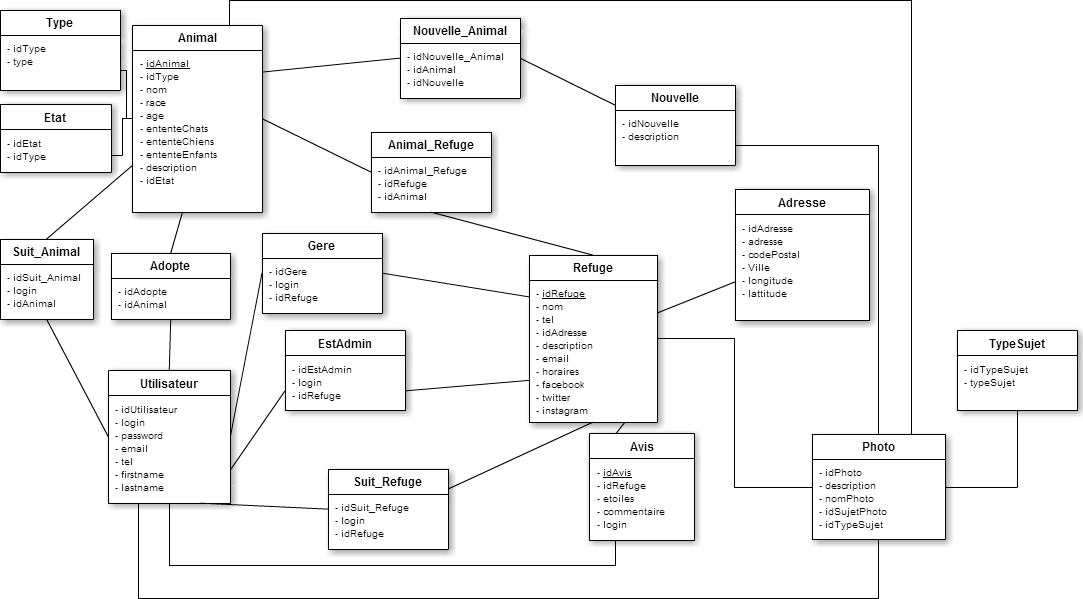
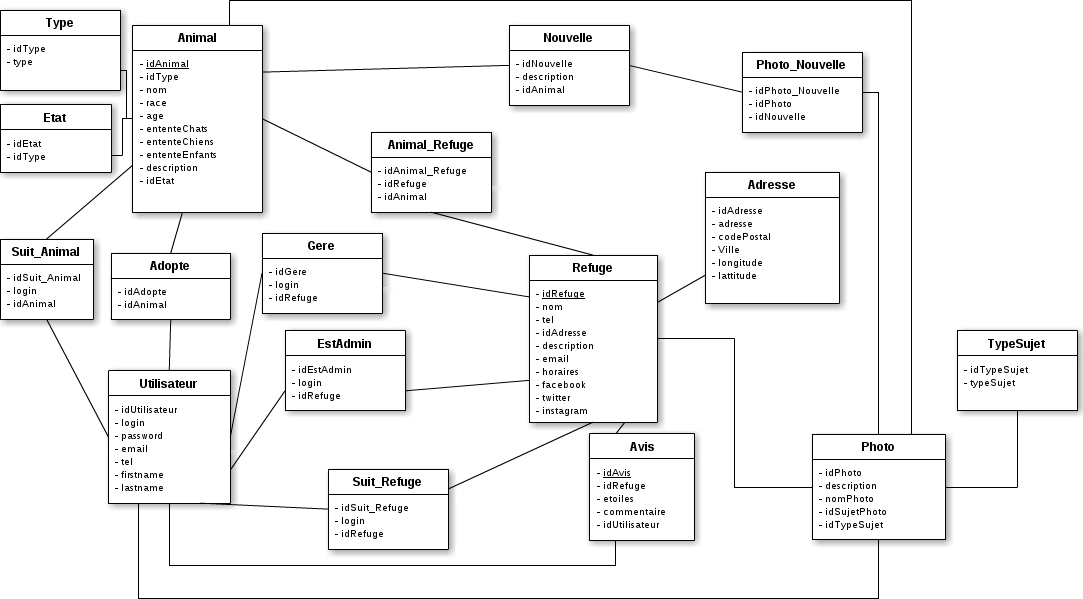
Gestion BD : Ajout des nouvelles
(closes #13)

diff --git a/Find-Yours-Pets/app/src/main/java/company/pepisha/find_yours_pets/db/news/NewsOperation.java b/Find-Yours-Pets/app/src/main/java/company/pepisha/find_yours_pets/db/news/NewsOperation.java
@@ -1,0 +1,90 @@
+package company.pepisha.find_yours_pets.db.news;
+
+
+import android.content.ContentValues;
+import android.content.Context;
+import android.database.Cursor;
+import android.database.SQLException;
+import android.database.sqlite.SQLiteDatabase;
+
+import java.util.ArrayList;
+import java.util.List;
+
+import company.pepisha.find_yours_pets.db.DataBaseWrapper;
+
+public class NewsOperation {
+
+    private DataBaseWrapper dbHelper;
+    private String[] NEWS_TABLE_COLUMNS = { NewsConstants.ID_NEWS,
+            NewsConstants.DESCRIPTION, NewsConstants.ID_ANIMAL };
+    private SQLiteDatabase database;
+
+
+    public NewsOperation(Context context){
+        dbHelper = new DataBaseWrapper(context);
+    }
+
+    public void open() throws SQLException {
+        database = dbHelper.getWritableDatabase();
+    }
+
+    public void close() {
+        dbHelper.close();
+    }
+
+    public News addNews(String description, int idAnimal) {
+        ContentValues values = new ContentValues();
+
+        values.put(NewsConstants.DESCRIPTION, description);
+        values.put(NewsConstants.ID_ANIMAL, idAnimal);
+
+        long newsId = database.insert(NewsConstants.NEWS, null, values);
+
+        News news = getNews(newsId);
+        return news;
+    }
+
+    public void deleteNews(News news) {
+        long id = news.getIdNews();
+        database.delete(NewsConstants.NEWS, NewsConstants.ID_NEWS
+                + " = " + id, null);
+    }
+
+    public List getAllNews() {
+        List newsList = new ArrayList();
+
+        Cursor cursor = database.query(NewsConstants.NEWS,
+                NEWS_TABLE_COLUMNS, null, null, null, null, null);
+
+        cursor.moveToFirst();
+        while (!cursor.isAfterLast()) {
+            News news = parseNews(cursor);
+            newsList.add(news);
+            cursor.moveToNext();
+        }
+
+        cursor.close();
+        return newsList;
+    }
+
+    public News getNews(long newsId){
+        Cursor cursor = database.query(NewsConstants.NEWS,
+                NEWS_TABLE_COLUMNS, NewsConstants.ID_NEWS + " = "
+                        + newsId, null, null, null, null);
+
+        cursor.moveToFirst();
+
+        News news = parseNews(cursor);
+        cursor.close();
+        return news;
+    }
+
+    private News parseNews(Cursor cursor) {
+        News news = new News();
+        news.setIdNews(cursor.getInt(0));
+        news.setDescription(cursor.getString(1));
+        news.setIdAnimal(cursor.getInt(2));
+
+        return news;
+    }
+}

diff --git a/Find-Yours-Pets/app/src/main/java/company/pepisha/find_yours_pets/db/news/NewsConstants.java b/Find-Yours-Pets/app/src/main/java/company/pepisha/find_yours_pets/db/news/NewsConstants.java
@@ -1,0 +1,22 @@
+package company.pepisha.find_yours_pets.db.news;
+
+
+import company.pepisha.find_yours_pets.db.animal.AnimalConstants;
+
+public class NewsConstants {
+    protected static final String NEWS = "News";
+
+    protected static final String ID_NEWS = "idNews";
+    protected static final String DESCRIPTION = "description";
+    protected static final String ID_ANIMAL = "idAnimal";
+
+    protected static final String NEWS_CREATE = "create table " + NEWS
+            + "(" + ID_NEWS + " integer primary key autoincrement, " +
+            DESCRIPTION + " text not null, " +
+            ID_ANIMAL + " integer not null, " +
+            "FOREIGN KEY(" + ID_ANIMAL + ") REFERENCES " + AnimalConstants.ANIMAL
+            + "(" + AnimalConstants.ID_ANIMAL + ")," +
+            ");";
+
+    protected static final String NEWS_DROP = "DROP TABLE IF NOT EXISTS " + NEWS;
+}

diff --git a/Find-Yours-Pets/app/src/main/java/company/pepisha/find_yours_pets/db/news/News.java b/Find-Yours-Pets/app/src/main/java/company/pepisha/find_yours_pets/db/news/News.java
@@ -1,0 +1,32 @@
+package company.pepisha.find_yours_pets.db.news;
+
+
+public class News {
+    private int idNews;
+    private String description;
+    private int idAnimal;
+
+    public int getIdNews() {
+        return idNews;
+    }
+
+    public void setIdNews(int idNews) {
+        this.idNews = idNews;
+    }
+
+    public String getDescription() {
+        return description;
+    }
+
+    public void setDescription(String description) {
+        this.description = description;
+    }
+
+    public int getIdAnimal() {
+        return idAnimal;
+    }
+
+    public void setIdAnimal(int idAnimal) {
+        this.idAnimal = idAnimal;
+    }
+}

diff --git a/Find-Yours-Pets/app/src/main/java/company/pepisha/find_yours_pets/db/animal/AnimalConstants.java b/Find-Yours-Pets/app/src/main/java/company/pepisha/find_yours_pets/db/animal/AnimalConstants.java
@@ -3,9 +3,9 @@ package company.pepisha.find_yours_pets.db.animal;
 
 public class AnimalConstants {
 
-    protected static final String ANIMAL = "Animal";
+    public static final String ANIMAL = "Animal";
 
-    protected static final String ID_ANIMAL = "idAnimal";
+    public static final String ID_ANIMAL = "idAnimal";
     protected static final String TYPE = "idType";
     protected static final String NAME = "name";
     protected static final String BREED = "breed";
